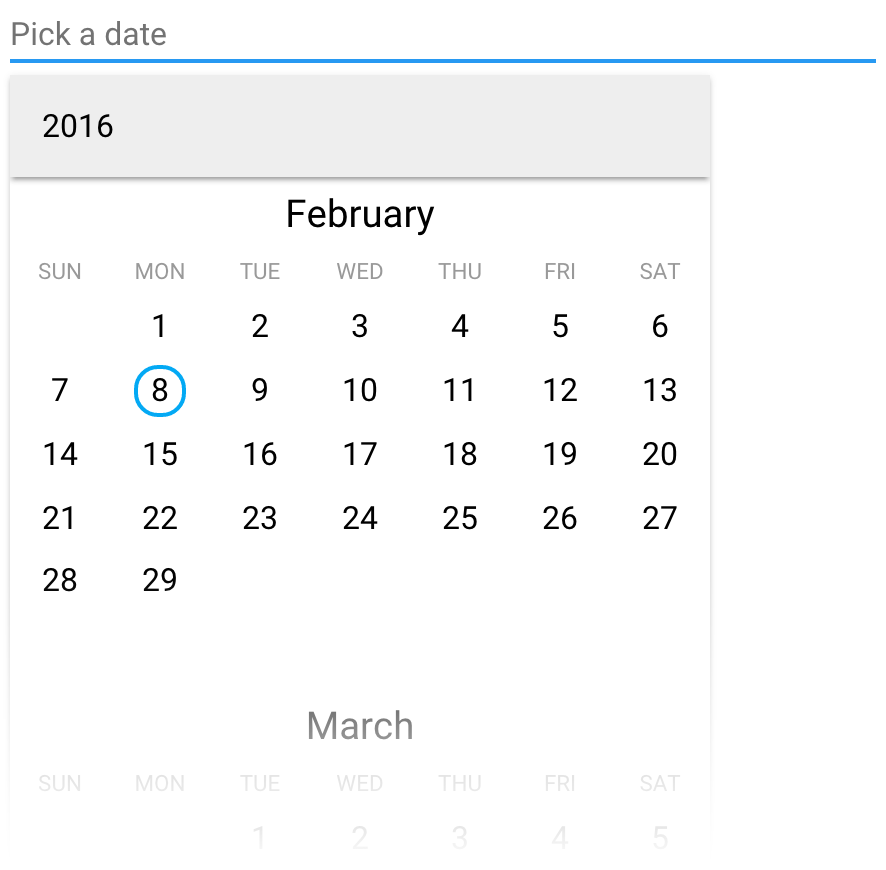
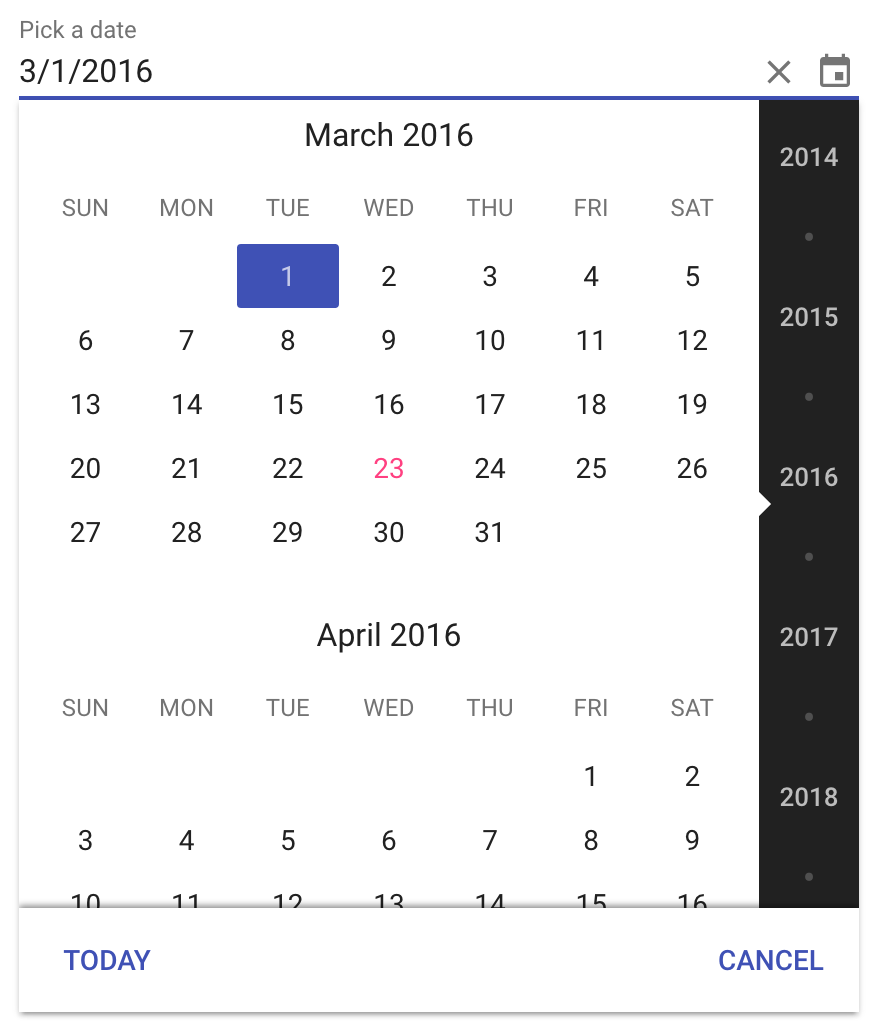
Update screenshots used in the documentation

diff --git a/packages/vaadin-date-picker/README.md b/packages/vaadin-date-picker/README.md
@@ -5,7 +5,7 @@
 
 [&lt;vaadin-date-picker&gt;](https://vaadin.com/elements/-/element/vaadin-date-picker) is a [Polymer](http://polymer-project.org) element providing a date selection field which includes a scrollable month calendar view, part of the [Vaadin Core Elements](https://vaadin.com/elements).
 
-[<img src="https://raw.githubusercontent.com/vaadin/vaadin-date-picker/master/screenshot.png" width="443" alt="Screenshot of vaadin-date-picker" />](https://vaadin.com/elements/-/element/vaadin-date-picker)
+[<img src="https://raw.githubusercontent.com/vaadin/vaadin-date-picker/master/screenshot.png" width="439" alt="Screenshot of vaadin-date-picker" />](https://vaadin.com/elements/-/element/vaadin-date-picker)
 
 ## Getting started
 
